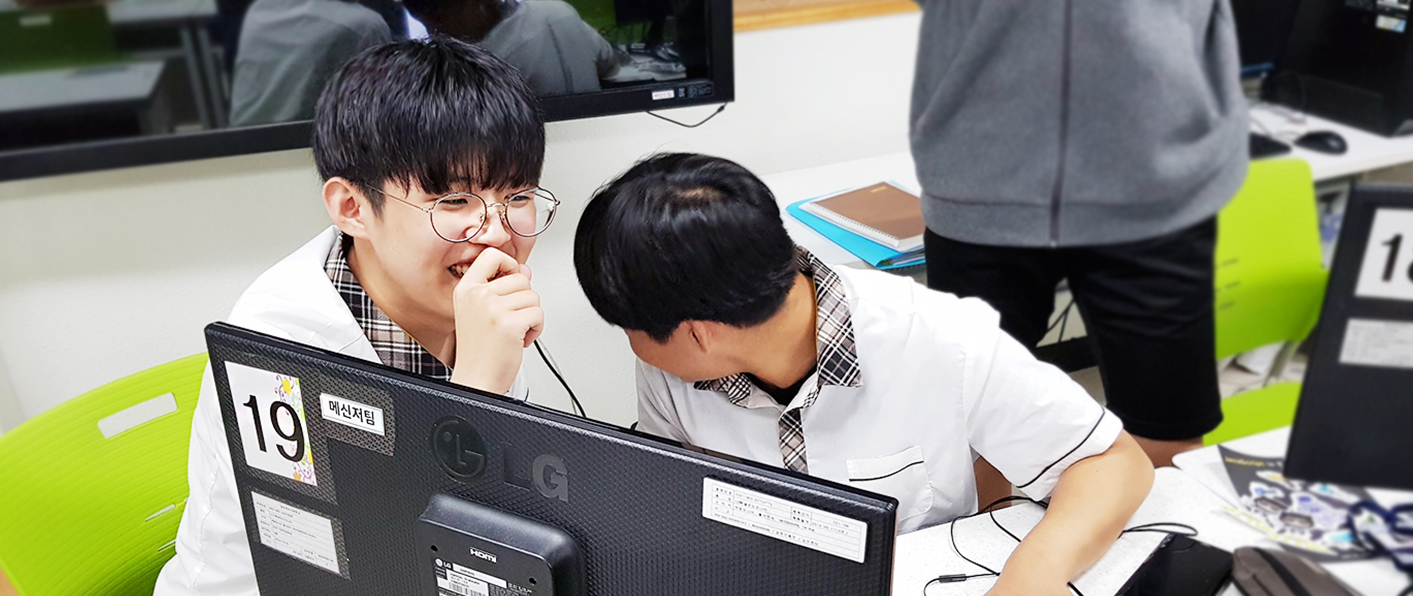
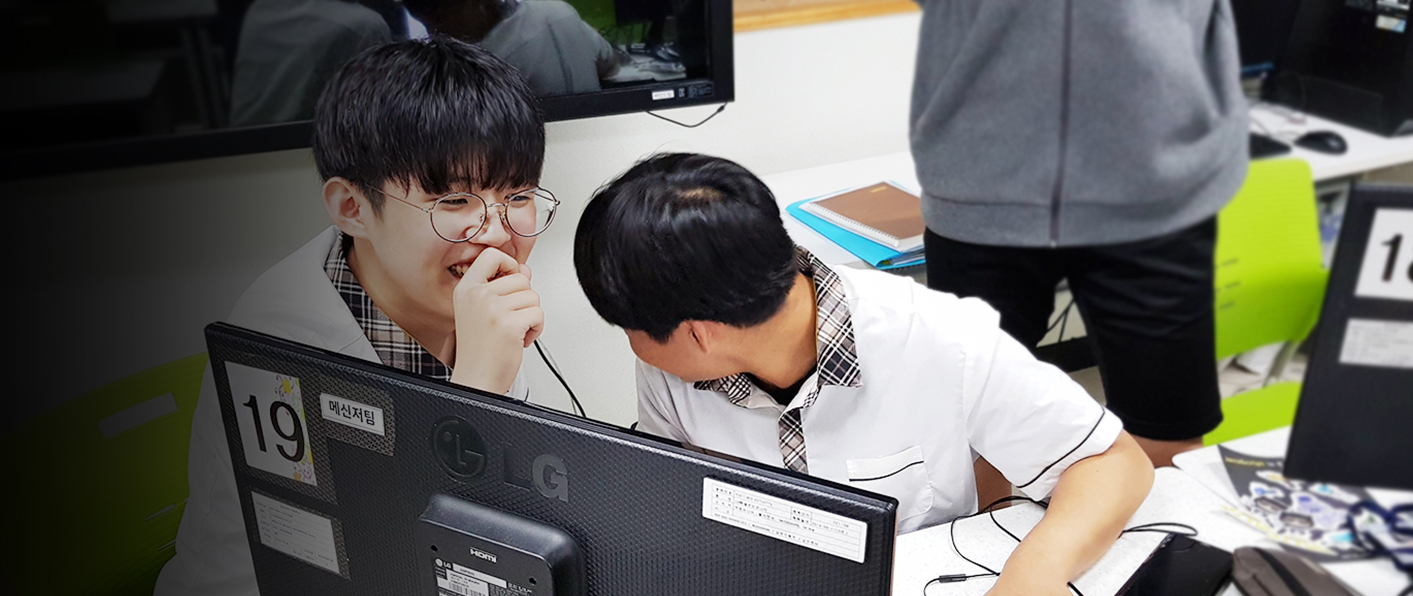
[ADD]image
이미지 그라데이션 추가

Changed region(s): [[0.0, 0.0, 0.4048, 1.0]]

diff --git a/src/components/Common/ImageSlide/ImageSlide.scss b/src/components/Common/ImageSlide/ImageSlide.scss
@@ -14,12 +14,8 @@
     &-gradient{
       position: absolute;
       width: 100%;
-      height: 100%;
-      background-image: linear-gradient(
-        90deg,
-        rgba(1, 1, 1, 0.8),
-        rgba(1, 1, 1, 0)
-      );
+      height:100%;
+      min-width: 1486px;
     }
     &-textbox{
       width: 40%;
